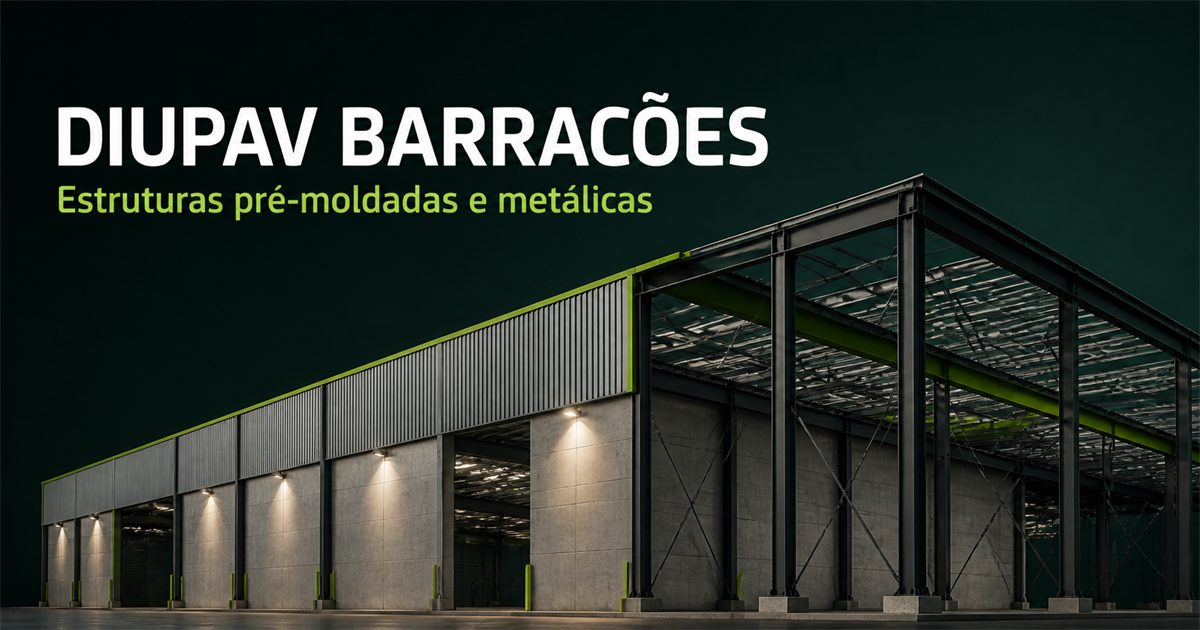
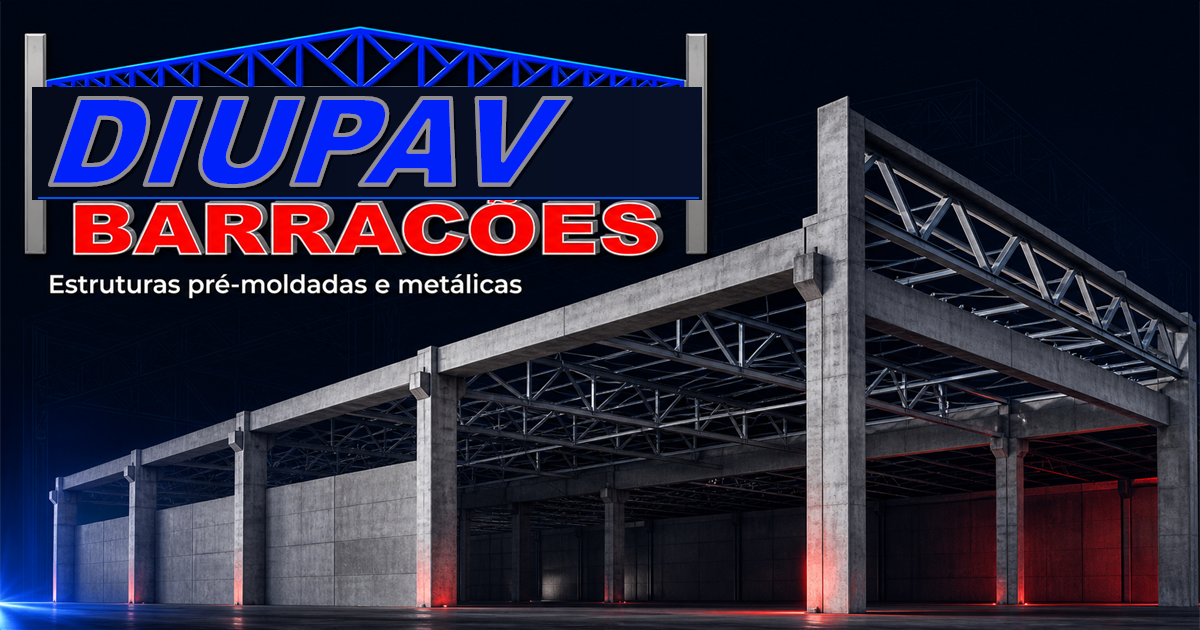
Alinha identidade visual ao logotipo DiuPav

diff --git a/app/globals.css b/app/globals.css
@@ -1,6 +1,6 @@
 @import 'tailwindcss';
 
-:root { --ink: #10251f; --ink-2: #19372f; --green: #8bc11f; --green-dark: #6c9d10; --lime: #b7e34e; --paper: #f4f1e8; --white: #fffef9; --line: rgba(16, 37, 31, 0.17); }
+:root { --ink: #060b1b; --ink-2: #11172a; --green: #0021fa; --green-dark: #000dcf; --lime: #fd0504; --paper: #f3f4f6; --white: #ffffff; --silver: #918e92; --line: rgba(6, 11, 27, 0.17); }
 * { box-sizing: border-box; }
 html { scroll-behavior: smooth; }
 body { margin: 0; background: var(--paper); color: var(--ink); font-family: var(--font-barlow), Arial, sans-serif; }
@@ -10,20 +10,13 @@ button { border: 0; cursor: pointer; }
 :focus-visible { outline: 3px solid var(--lime); outline-offset: 4px; }
 
 .site-header { height: 92px; padding: 0 clamp(24px, 5vw, 76px); display: grid; grid-template-columns: 1fr auto 1fr; align-items: center; border-bottom: 1px solid rgba(255,255,255,.16); color: white; position: absolute; z-index: 10; inset: 0 0 auto 0; }
-.brand { display: flex; align-items: center; gap: 12px; width: fit-content; }
-.brand-mark { width: 41px; height: 41px; border: 3px solid var(--green); position: relative; transform: skewY(-10deg); display: grid; place-items: center; }
-.brand-mark::before, .brand-mark::after, .brand-mark span { content: ''; position: absolute; background: var(--green); }
-.brand-mark::before { width: 3px; height: 41px; left: 11px; top: -3px; }
-.brand-mark::after { width: 3px; height: 41px; right: 10px; top: -3px; }
-.brand-mark span { width: 41px; height: 3px; left: -3px; top: 17px; }
-.brand-copy { display: flex; flex-direction: column; line-height: .82; }
-.brand-copy strong { font: 800 25px/1 var(--font-barlow-condensed); letter-spacing: .035em; }
-.brand-copy small { font: 600 9px/1 var(--font-barlow); letter-spacing: .34em; color: var(--green); margin-top: 6px; }
+.brand { display: flex; align-items: center; width: fit-content; }
+.brand img { display: block; width: auto; height: 54px; object-fit: contain; }
 .main-nav { display: flex; align-items: center; gap: clamp(22px, 3vw, 48px); font-size: 14px; font-weight: 500; }
 .main-nav a { color: rgba(255,255,255,.74); transition: color .2s ease; position: relative; }
 .main-nav a:hover, .main-nav a.active { color: white; }
-.main-nav a.active::after { content: ''; position: absolute; height: 2px; background: var(--green); left: 0; right: 0; bottom: -11px; }
-.header-cta { justify-self: end; background: var(--green); color: var(--ink); padding: 13px 18px; font-size: 13px; font-weight: 700; }
+.main-nav a.active::after { content: ''; position: absolute; height: 2px; background: var(--lime); left: 0; right: 0; bottom: -11px; }
+.header-cta { justify-self: end; background: var(--lime); color: white; padding: 13px 18px; font-size: 13px; font-weight: 700; }
 .header-cta span, .button span { margin-left: 13px; }
 .mobile-menu { display: none; }
 
@@ -38,11 +31,11 @@ h1 em { color: var(--green); font-style: normal; }
 .hero-content > p { max-width: 650px; margin: 28px 0 0; color: rgba(255,255,255,.72); font-size: 18px; line-height: 1.58; }
 .hero-actions { display: flex; flex-wrap: wrap; gap: 13px; margin-top: 39px; }
 .button { min-height: 53px; padding: 0 22px; display: inline-flex; align-items: center; justify-content: center; font-size: 14px; font-weight: 700; }
-.button-primary { background: var(--green); color: var(--ink); }
+.button-primary { background: var(--green); color: white; }
 .button-secondary { border: 1px solid rgba(255,255,255,.42); color: white; }
 
-.hero-visual { position: relative; overflow: hidden; background: linear-gradient(135deg, #21433a 0%, #10241f 48%, #07120f 100%); }
-.hero-visual::before { content: ''; position: absolute; inset: 0; background: linear-gradient(90deg, var(--ink) 0, transparent 36%), linear-gradient(0deg, rgba(8,22,18,.8), transparent 55%), radial-gradient(circle at 70% 20%, rgba(183,227,78,.17), transparent 32%); z-index: 2; }
+.hero-visual { position: relative; overflow: hidden; background: linear-gradient(135deg, #111a46 0%, #070f2d 48%, #02050e 100%); }
+.hero-visual::before { content: ''; position: absolute; inset: 0; background: linear-gradient(90deg, var(--ink) 0, transparent 36%), linear-gradient(0deg, rgba(2,5,18,.82), transparent 55%), radial-gradient(circle at 70% 20%, rgba(0,33,250,.24), transparent 32%); z-index: 2; }
 .visual-haze { position: absolute; width: 500px; height: 500px; right: -170px; top: 80px; border-radius: 50%; background: var(--green); filter: blur(170px); opacity: .16; }
 .steel-frame { position: absolute; width: 92%; height: 57%; right: -26%; bottom: 10%; border: 14px solid rgba(203,213,205,.46); border-bottom: 0; transform: perspective(900px) rotateY(-18deg) skewY(-3deg); transform-origin: right bottom; box-shadow: inset 0 0 0 1px rgba(255,255,255,.2); }
 .steel-frame::before, .steel-frame::after { content: ''; position: absolute; height: 14px; background: rgba(203,213,205,.42); transform-origin: left center; }
@@ -56,18 +49,19 @@ h1 em { color: var(--green); font-style: normal; }
 .visual-label span { font: 600 10px/1 var(--font-barlow); letter-spacing: .16em; color: rgba(255,255,255,.62); }
 .visual-label strong { font: 700 25px/1 var(--font-barlow-condensed); color: var(--green); border-left: 1px solid rgba(255,255,255,.25); padding-left: 18px; }
 
-.proof-strip { min-height: 145px; display: grid; grid-template-columns: auto auto 1fr auto; gap: 26px; align-items: center; padding: 24px clamp(30px, 7vw, 108px); background: var(--green); color: var(--ink); }
+.proof-strip { min-height: 145px; display: grid; grid-template-columns: auto auto 1fr auto; gap: 26px; align-items: center; padding: 24px clamp(30px, 7vw, 108px); background: var(--green); color: white; }
 .proof-number { font: 800 clamp(72px, 7vw, 108px)/.75 var(--font-barlow-condensed); letter-spacing: -.04em; }
 .proof-copy { display: flex; flex-direction: column; text-transform: uppercase; min-width: 205px; }
 .proof-copy strong { font: 700 20px/1 var(--font-barlow-condensed); }
 .proof-copy span { font-size: 11px; letter-spacing: .08em; margin-top: 6px; }
-.proof-strip p { max-width: 570px; padding-left: clamp(20px, 4vw, 65px); border-left: 1px solid rgba(16,37,31,.27); line-height: 1.55; }
-.proof-badge { width: 54px; height: 54px; border: 1px solid rgba(16,37,31,.3); border-radius: 50%; display: grid; place-items: center; font-size: 21px; }
+.proof-number, .proof-badge { color: white; }
+.proof-strip p { max-width: 570px; padding-left: clamp(20px, 4vw, 65px); border-left: 1px solid rgba(255,255,255,.32); line-height: 1.55; }
+.proof-badge { width: 54px; height: 54px; border: 1px solid rgba(255,255,255,.4); border-radius: 50%; display: grid; place-items: center; font-size: 21px; }
 
 .intro { padding: 96px clamp(30px, 7vw, 108px) 110px; display: grid; grid-template-columns: 1.1fr .9fr; gap: 90px; align-items: end; }
 .section-kicker { font-size: 11px; font-weight: 700; text-transform: uppercase; letter-spacing: .13em; color: var(--green-dark); margin-bottom: 23px; }
 .intro h2 { font-size: clamp(44px, 5vw, 72px); line-height: .93; max-width: 660px; }
-.intro > p { margin: 0; font-size: 17px; color: #52615c; line-height: 1.7; max-width: 600px; }
+.intro > p { margin: 0; font-size: 17px; color: #565d70; line-height: 1.7; max-width: 600px; }
 
 .services-grid { display: grid; grid-template-columns: repeat(3, 1fr); border-top: 1px solid var(--line); border-left: 1px solid var(--line); margin: 0 clamp(30px, 7vw, 108px); }
 .service-card { min-height: 380px; padding: 34px; border-right: 1px solid var(--line); border-bottom: 1px solid var(--line); display: flex; flex-direction: column; position: relative; background: rgba(255,255,255,.08); transition: background .25s ease, transform .25s ease; }
@@ -80,7 +74,7 @@ h1 em { color: var(--green); font-style: normal; }
 .service-card:nth-child(even) .card-symbol { width: 88px; border-width: 0 0 3px 3px; transform: skewY(-18deg); }
 .service-card:nth-child(even) .card-symbol::after { top: 35px; left: -8px; transform: rotate(-29deg); }
 .service-card h3, .catalog-list h3, .product-grid h3, .values-grid h3, .mission-grid h3 { margin: 0; font: 700 26px/1.05 var(--font-barlow-condensed); text-transform: uppercase; }
-.service-card p { color: #65716d; line-height: 1.55; margin: 13px 0 24px; }
+.service-card p { color: #616779; line-height: 1.55; margin: 13px 0 24px; }
 .service-card > a { font-size: 12px; font-weight: 700; text-transform: uppercase; letter-spacing: .08em; margin-top: auto; border-top: 1px solid var(--line); padding-top: 18px; display: flex; justify-content: space-between; }
 .section-action { display: flex; justify-content: flex-end; padding: 35px clamp(30px, 7vw, 108px) 105px; }
 .text-link { font-size: 13px; font-weight: 700; text-transform: uppercase; letter-spacing: .08em; padding-bottom: 9px; border-bottom: 2px solid var(--green); display: inline-flex; gap: 28px; }
@@ -107,8 +101,8 @@ h1 em { color: var(--green); font-style: normal; }
 .difference-list i { font-style: normal; color: var(--green-dark); font-size: 20px; }
 
 .about-band { min-height: 560px; display: grid; grid-template-columns: 1fr 1fr; background: var(--green); }
-.about-number { display: flex; flex-direction: column; justify-content: center; padding: 55px clamp(30px, 7vw, 108px); border-right: 1px solid rgba(16,37,31,.22); position: relative; overflow: hidden; }
-.about-number::after { content: ''; position: absolute; width: 430px; height: 430px; border: 1px solid rgba(16,37,31,.18); border-radius: 50%; right: -180px; top: -170px; box-shadow: 0 0 0 80px rgba(16,37,31,.025), 0 0 0 160px rgba(16,37,31,.02); }
+.about-number { display: flex; flex-direction: column; justify-content: center; padding: 55px clamp(30px, 7vw, 108px); border-right: 1px solid rgba(255,255,255,.24); position: relative; overflow: hidden; color: white; }
+.about-number::after { content: ''; position: absolute; width: 430px; height: 430px; border: 1px solid rgba(255,255,255,.2); border-radius: 50%; right: -180px; top: -170px; box-shadow: 0 0 0 80px rgba(255,255,255,.03), 0 0 0 160px rgba(255,255,255,.02); }
 .about-number strong { font: 800 clamp(180px, 24vw, 360px)/.7 var(--font-barlow-condensed); letter-spacing: -.06em; }
 .about-number span { text-transform: uppercase; letter-spacing: .1em; font-size: 12px; font-weight: 700; margin-left: 12px; margin-top: 34px; }
 .about-copy { background: var(--ink-2); color: white; padding: 95px clamp(30px, 7vw, 108px); display: flex; flex-direction: column; justify-content: center; }
@@ -116,21 +110,22 @@ h1 em { color: var(--green); font-style: normal; }
 .about-copy p { color: rgba(255,255,255,.68); max-width: 610px; font-size: 17px; line-height: 1.65; margin: 26px 0 40px; }
 .light-link { color: white; width: fit-content; }
 
-.budget-cta { min-height: 565px; padding: 90px clamp(30px, 7vw, 108px); background: #0b1c17; color: white; position: relative; overflow: hidden; display: flex; flex-direction: column; align-items: flex-start; justify-content: center; }
+.budget-cta { min-height: 565px; padding: 90px clamp(30px, 7vw, 108px); background: #030712; color: white; position: relative; overflow: hidden; display: flex; flex-direction: column; align-items: flex-start; justify-content: center; }
 .budget-cta h2 { font-size: clamp(66px, 8vw, 116px); line-height: .78; position: relative; z-index: 2; }
 .budget-cta h2 em { color: var(--green); font-style: normal; }
 .budget-cta p { max-width: 570px; color: rgba(255,255,255,.66); font-size: 17px; line-height: 1.6; margin: 34px 0; position: relative; z-index: 2; }
 .budget-cta .button { position: relative; z-index: 2; }
-.cta-frame { position: absolute; width: 48vw; height: 420px; right: -7vw; bottom: -80px; border: 15px solid rgba(139,193,31,.22); border-bottom: 0; transform: perspective(700px) rotateY(-18deg); }
-.cta-frame::after { content: ''; position: absolute; height: 15px; width: 130%; background: rgba(139,193,31,.2); top: 45%; left: -15%; transform: rotate(27deg); }
-.cta-frame i { position: absolute; width: 10px; height: 100%; background: rgba(139,193,31,.12); top: 0; }.cta-frame i:nth-child(1){left:25%}.cta-frame i:nth-child(2){left:50%}.cta-frame i:nth-child(3){left:75%}
+.cta-frame { position: absolute; width: 48vw; height: 420px; right: -7vw; bottom: -80px; border: 15px solid rgba(0,33,250,.3); border-bottom: 0; transform: perspective(700px) rotateY(-18deg); }
+.cta-frame::after { content: ''; position: absolute; height: 15px; width: 130%; background: rgba(0,33,250,.26); top: 45%; left: -15%; transform: rotate(27deg); }
+.cta-frame i { position: absolute; width: 10px; height: 100%; background: rgba(0,33,250,.18); top: 0; }.cta-frame i:nth-child(1){left:25%}.cta-frame i:nth-child(2){left:50%}.cta-frame i:nth-child(3){left:75%}
 
-.site-footer { background: #07130f; color: white; padding: 75px clamp(30px, 7vw, 108px) 25px; }
+.site-footer { background: #02050e; color: white; padding: 75px clamp(30px, 7vw, 108px) 25px; }
+.site-footer .brand img { height: 78px; }
 .footer-main { display: grid; grid-template-columns: 1.4fr .6fr 1fr .8fr; gap: 65px; padding-bottom: 68px; }
 .footer-main .brand { margin-bottom: 23px; }
 .footer-main > div { display: flex; flex-direction: column; align-items: flex-start; }
 .footer-main > div:first-child p { max-width: 300px; }
-.footer-main strong { font-size: 11px; text-transform: uppercase; letter-spacing: .13em; color: var(--green); margin-bottom: 22px; }
+.footer-main strong { font-size: 11px; text-transform: uppercase; letter-spacing: .13em; color: var(--lime); margin-bottom: 22px; }
 .footer-main p, .footer-main a { color: rgba(255,255,255,.55); line-height: 1.6; font-size: 13px; margin: 0 0 9px; }
 .footer-main a:hover { color: white; }
 .footer-bottom { border-top: 1px solid rgba(255,255,255,.11); padding-top: 24px; display: flex; justify-content: space-between; color: rgba(255,255,255,.37); font-size: 10px; letter-spacing: .1em; text-transform: uppercase; }
@@ -138,27 +133,28 @@ h1 em { color: var(--green); font-style: normal; }
 /* Internal pages */
 .page-hero { min-height: 590px; background: var(--ink); color: white; padding: 175px clamp(30px, 7vw, 108px) 78px; position: relative; overflow: hidden; display: flex; flex-direction: column; justify-content: center; }
 .page-hero-grid { position: absolute; inset: 0; opacity: .07; background-image: linear-gradient(rgba(255,255,255,.5) 1px, transparent 1px), linear-gradient(90deg, rgba(255,255,255,.5) 1px, transparent 1px); background-size: 72px 72px; mask-image: linear-gradient(90deg, transparent, black 60%); }
-.page-hero::after { content: ''; position: absolute; width: 550px; height: 550px; border: 85px solid rgba(139,193,31,.08); border-radius: 50%; right: -120px; top: 100px; }
+.page-hero::after { content: ''; position: absolute; width: 550px; height: 550px; border: 85px solid rgba(0,33,250,.13); border-radius: 50%; right: -120px; top: 100px; }
 .page-hero .eyebrow, .page-hero h1, .page-hero p { position: relative; z-index: 2; }
 .page-hero h1 { font-size: clamp(60px, 7vw, 106px); max-width: 1050px; margin-top: 29px; }
 .page-hero p { font-size: 18px; color: rgba(255,255,255,.67); line-height: 1.6; max-width: 690px; margin: 29px 0 0; }
 .page-index { position: absolute; right: clamp(30px, 7vw, 108px); bottom: 35px; color: rgba(255,255,255,.32); font-size: 10px; letter-spacing: .16em; z-index: 2; }
 .content-split { padding: 110px clamp(30px, 7vw, 108px); display: grid; grid-template-columns: 1fr 1fr; gap: 9vw; }
 .content-split h2, .catalog-intro h2, .values-section > h2 { font-size: clamp(50px, 5.8vw, 82px); line-height: .93; }
-.rich-copy p { color: #53625d; font-size: 18px; line-height: 1.75; margin: 0 0 22px; }
+.rich-copy p { color: #565d70; font-size: 18px; line-height: 1.75; margin: 0 0 22px; }
 .mission-grid { margin: 0 clamp(30px, 7vw, 108px) 110px; display: grid; grid-template-columns: 1.15fr .85fr; border: 1px solid var(--line); }
 .mission-grid article { padding: 55px; min-height: 360px; }
 .mission-grid article + article { border-left: 1px solid var(--line); background: var(--green); }
 .mission-grid article > span, .values-grid article > span { font: 600 11px/1 var(--font-barlow); letter-spacing: .1em; color: var(--green-dark); }
 .mission-grid h3 { font-size: 38px; margin-top: 80px; }
-.mission-grid p { color: #52615c; line-height: 1.65; max-width: 650px; }
-.mission-grid article + article p { color: var(--ink); }
+.mission-grid p { color: #565d70; line-height: 1.65; max-width: 650px; }
+.mission-grid article + article { color: white; }
+.mission-grid article + article p { color: rgba(255,255,255,.78); }
 .values-section { background: var(--white); padding: 105px clamp(30px, 7vw, 108px); }
 .values-grid { display: grid; grid-template-columns: repeat(5, 1fr); border: 1px solid var(--line); border-right: 0; margin-top: 55px; }
 .values-grid article { min-height: 330px; padding: 28px; border-right: 1px solid var(--line); display: flex; flex-direction: column; }
 .values-grid h3 { margin-top: 85px; }
 .values-grid p { color: #64706c; line-height: 1.55; font-size: 14px; }
-.recognition-block { padding: 90px clamp(30px, 7vw, 108px); background: var(--green); display: grid; grid-template-columns: auto 1fr; gap: 8vw; align-items: center; }
+.recognition-block { padding: 90px clamp(30px, 7vw, 108px); background: var(--green); color: white; display: grid; grid-template-columns: auto 1fr; gap: 8vw; align-items: center; }
 .recognition-five { font: 800 clamp(170px, 22vw, 320px)/.7 var(--font-barlow-condensed); letter-spacing: -.06em; }
 .recognition-block h2 { font-size: clamp(52px, 6vw, 86px); line-height: .9; }
 .recognition-block p { font-size: 17px; line-height: 1.65; max-width: 670px; }
@@ -186,7 +182,7 @@ h1 em { color: var(--green); font-style: normal; }
 .product-shape span { position: absolute; z-index: 2; width: 4px; height: 90px; bottom: 0; background: var(--ink); }.product-shape span:nth-child(1){left:31%}.product-shape span:nth-child(2){left:51%}.product-shape span:nth-child(3){left:70%}
 .product-grid h3 { font-size: 28px; margin-top: auto; }
 .product-grid p { color: #63706b; line-height: 1.55; margin-bottom: 0; }
-.custom-product { background: var(--green); padding: 70px clamp(30px, 7vw, 108px); display: grid; grid-template-columns: .4fr 1.6fr; gap: 5vw; }
+.custom-product { background: var(--lime); color: white; padding: 70px clamp(30px, 7vw, 108px); display: grid; grid-template-columns: .4fr 1.6fr; gap: 5vw; }
 .custom-product > span { font-size: 11px; letter-spacing: .13em; font-weight: 700; }
 .custom-product h2 { font-size: clamp(50px, 6vw, 86px); line-height: .9; }
 .custom-product p { font-size: 18px; max-width: 680px; line-height: 1.6; }
@@ -211,7 +207,7 @@ h1 em { color: var(--green); font-style: normal; }
 .field-wide { margin-top: 24px; }
 .file-field { margin: 24px 0; }.file-field small { color: rgba(255,255,255,.4); font-size: 11px; }.file-field input { padding: 11px; font-size: 12px; }
 .form-note { color: var(--lime); font-size: 13px; line-height: 1.5; }
-.contact-close { background: var(--green); padding: 55px clamp(30px, 7vw, 108px); display: grid; grid-template-columns: 1fr 1fr; align-items: center; }
+.contact-close { background: var(--green); color: white; padding: 55px clamp(30px, 7vw, 108px); display: grid; grid-template-columns: 1fr 1fr; align-items: center; }
 .contact-close strong { font: 800 clamp(100px, 16vw, 240px)/.7 var(--font-barlow-condensed); letter-spacing: -.05em; }
 .contact-close p { max-width: 560px; font: 600 27px/1.25 var(--font-barlow-condensed); text-transform: uppercase; }
 
@@ -221,7 +217,7 @@ h1 em { color: var(--green); font-style: normal; }
   .hero { grid-template-columns: 1fr; min-height: 760px; }
   .hero-content { padding-top: 165px; padding-bottom: 120px; }
   .hero-visual { position: absolute; inset: 0 0 0 43%; opacity: .48; }
-  .hero-visual::before { background: linear-gradient(90deg, var(--ink) 5%, rgba(16,37,31,.66) 55%, rgba(8,22,18,.35)); }
+  .hero-visual::before { background: linear-gradient(90deg, var(--ink) 5%, rgba(6,11,27,.68) 55%, rgba(2,5,18,.4)); }
   .proof-strip { grid-template-columns: auto 1fr auto; }
   .proof-strip p { grid-column: 1 / -1; border: 0; padding: 0; margin: 0; }
   .services-grid { grid-template-columns: repeat(2, 1fr); }
@@ -237,8 +233,8 @@ h1 em { color: var(--green); font-style: normal; }
 }
 @media (max-width: 650px) {
   .site-header { height: 78px; padding: 0 20px; }
-  .brand-mark { width: 35px; height: 35px; }
-  .brand-copy strong { font-size: 21px; }
+  .brand img { height: 42px; }
+  .site-footer .brand img { height: 68px; }
   .header-cta { padding: 11px 13px; font-size: 11px; }
   .header-cta span { display: none; }
   .header-cta { display: none; }

diff --git a/app/components.tsx b/app/components.tsx
@@ -13,8 +13,12 @@ const nav = [
 export function Brand() {
   return (
     <span className="brand">
-      <span className="brand-mark" aria-hidden="true"><span /></span>
-      <span className="brand-copy"><strong>DIUPAV</strong><small>BARRACÕES</small></span>
+      <img
+        src="/diupav-logo.png"
+        alt="DiuPav Barracões"
+        width="2172"
+        height="724"
+      />
     </span>
   );
 }
